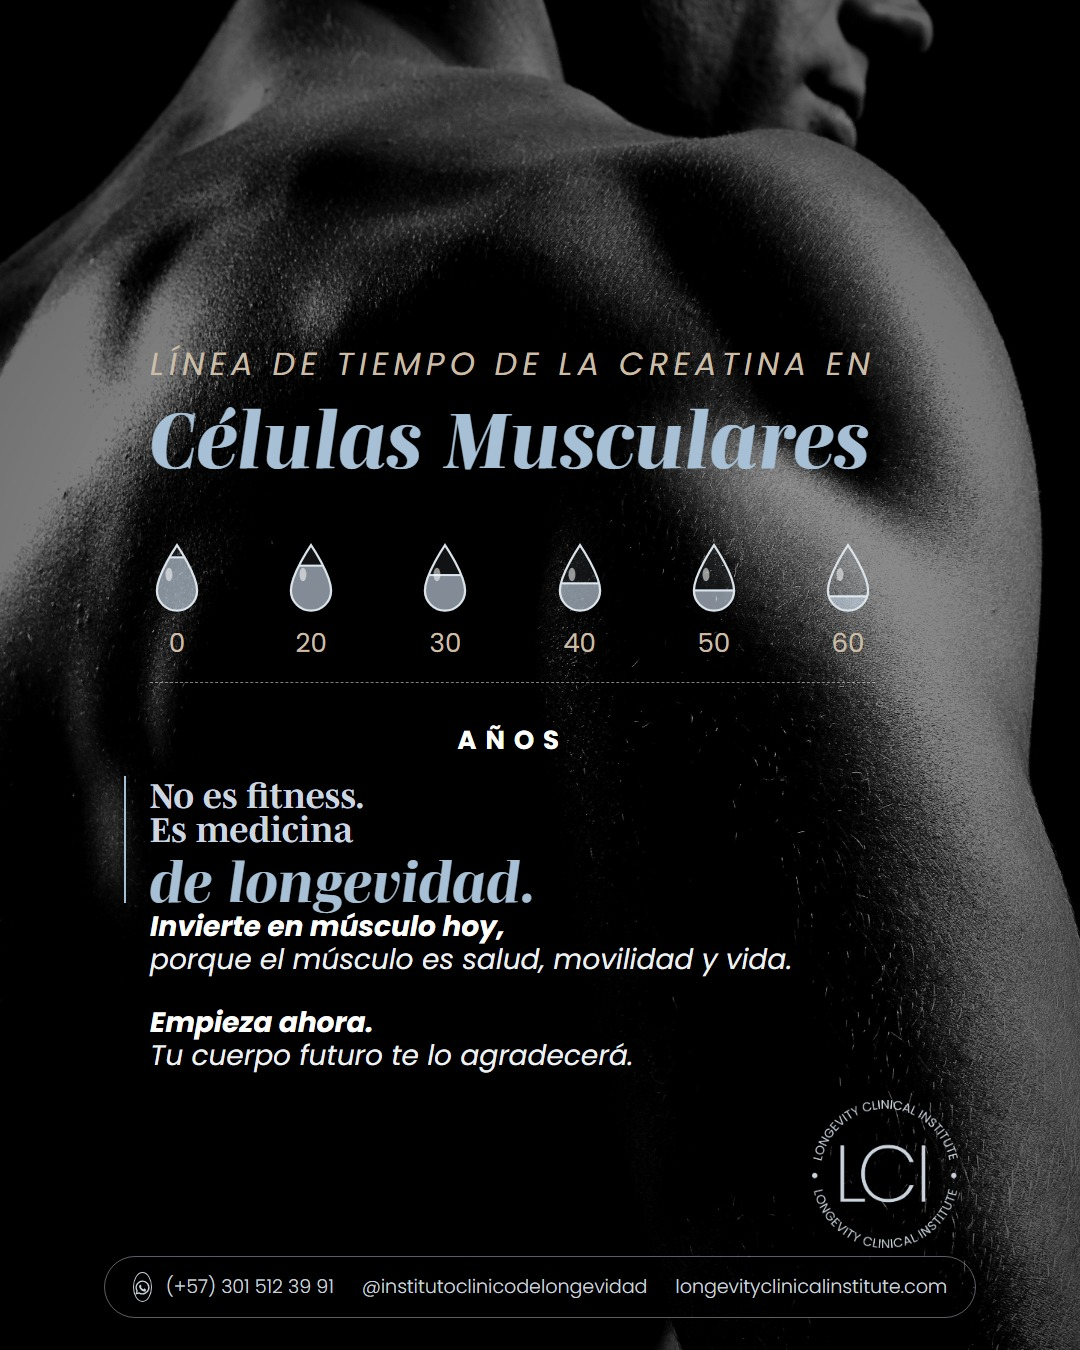
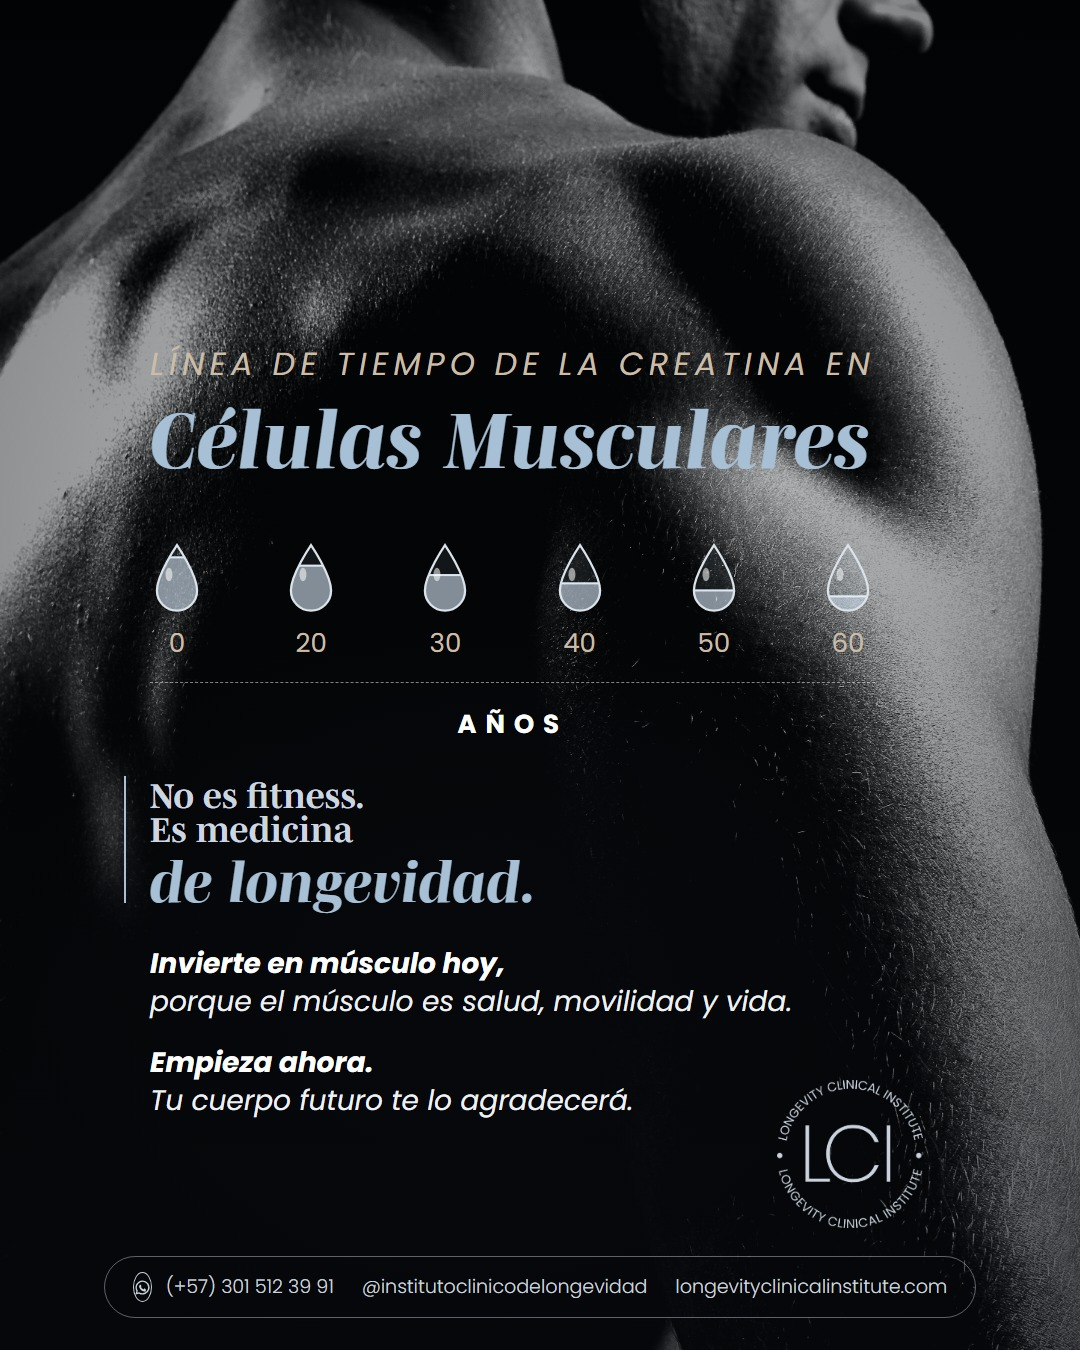
ES Paola: Musculo con viñeteado+ritmo de Paola, ADN con foto limpia (sin bordes); regla ES-gemelas y fotos-fuente en el skill

diff --git a/plugins/lci-brand/skills/lci-piezas-graficas/SKILL.md b/plugins/lci-brand/skills/lci-piezas-graficas/SKILL.md
@@ -5,6 +5,15 @@ description: "Motor de DISEÑO GRÁFICO y diagramación del Longevity Clinical I
 
 # LCI — Piezas Gráficas (clon de Diana Paola Londoño)
 
+## ⭐ PIEZAS ES GEMELAS DE UNA EN + FOTOS FUENTE (la Dra., 25-oct-2026 — «errores de principiante» que NO se repiten)
+Al producir la versión ES de una pieza EN ya aprobada, el español es más largo y descuadra la pieza; **que el EN pase NO garantiza el ES**. Mirar el PNG de CADA pieza ES contra el original de Paola (`references/estandar-visual-2026/posts/NN-*.jpg`) antes de entregar o subir. Reglas duras:
+1. **Una sola línea de alineación izquierda:** titular, statement y body caen en el MISMO borde; solo el filete/borde-acento sobresale a la izquierda. Nunca tres sangrías distintas.
+2. **El sello NUNCA toca el texto:** si el cuerpo ES llega al sello, se mueve el sello a su rincón (como el original de Paola), no se deja encima de la última línea.
+3. **Palabra estrella = ancho EXACTO del resaltado de abajo** (regla «abraza»): la palabra Mencken itálica mide lo mismo que la barra-resaltado de debajo. Se mide en el render (`fontSize *= anchoBarra/anchoEstrella` tras `document.fonts.ready`), nunca se deja sobresalir.
+4. **Re-romper las líneas** para el largo del español; no heredar los `<br>` del inglés. Respetar el MISMO interlineado y ritmo de Paola (ver INTERLINEADO-BLINDADO): eyebrow/«Years/Años»/unidad PEGADOS a su línea, y aire real entre el statement y el body (no pegar «de longevidad.» con el cuerpo).
+5. **Fotos: usar la FUENTE limpia del banco/carpeta de marca, NUNCA reconstruir el fondo por inpaint** (deja franjas grises y bordes azules borrosos). Fondos limpios confirmados en `…04.LINEA GRAFICA/…_Carpeta/Links/`: Exosomas → `AdobeStock_516988423.jpeg`; ADN «Tu cuerpo sabe» → `AdobeStock_1640564733.jpeg`; fuerza/músculo (espalda) → `AdobeStock_130404751.jpeg`.
+6. **Contraste sobre foto con VIÑETEADO radial en coordenadas de la pieza** (como Paola en Músculo y ADN), no bajando la luz de toda la foto: inyectar `radial-gradient(ellipse W% H% at x% y%, rgba(oscuro,.9) 0%, …, rgba(oscuro,0) ~75%)` como PRIMERA capa del `fondo`, antes de la `url('…')` (`_bg` admite capas apiladas: `"radial-…, linear-…, url('…')|cover|center|1.0"`). Oscurece solo detrás del texto/sello.
+
 ## 🛑 ANTES DE DISEÑAR Y ANTES DE ENTREGAR — OBLIGATORIO EN CADA TANDA (la Dra., 11-oct-2026)
 Este bloque manda sobre todo lo demás. Se relee COMPLETO al empezar cada tanda, aunque sea en la misma conversación.
 1. **Un soporte distinto por pieza — y el panel de vidrio a media pieza (`mitad`) es la EXCEPCIÓN (la Dra., 25-oct-2026: «se está repitiendo mucho»).**
